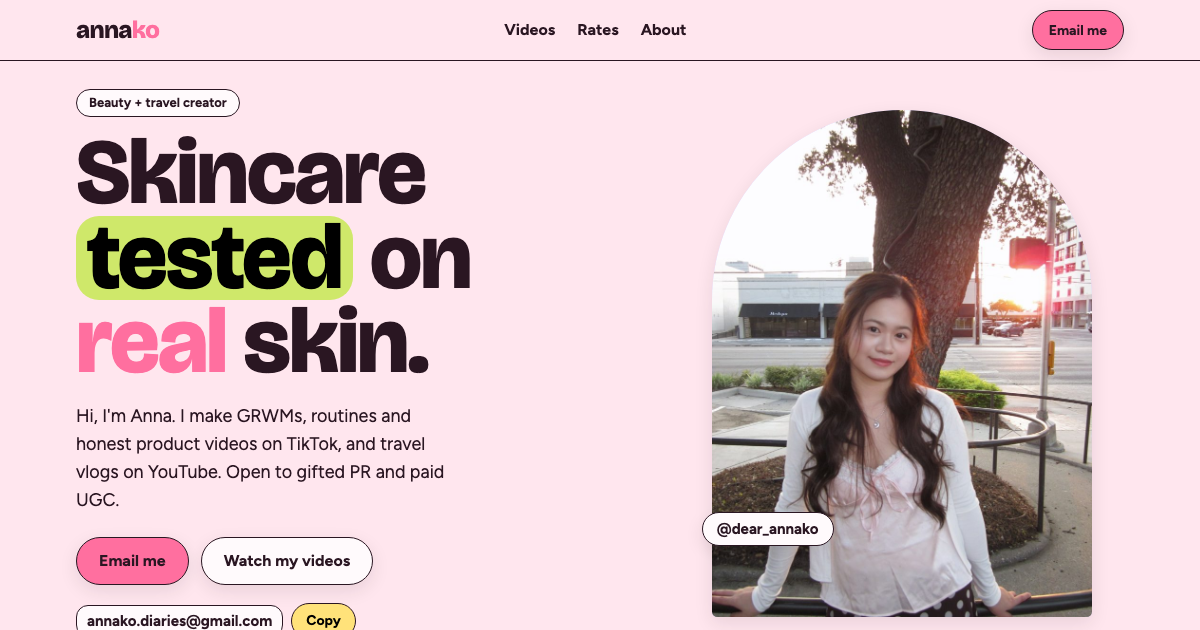
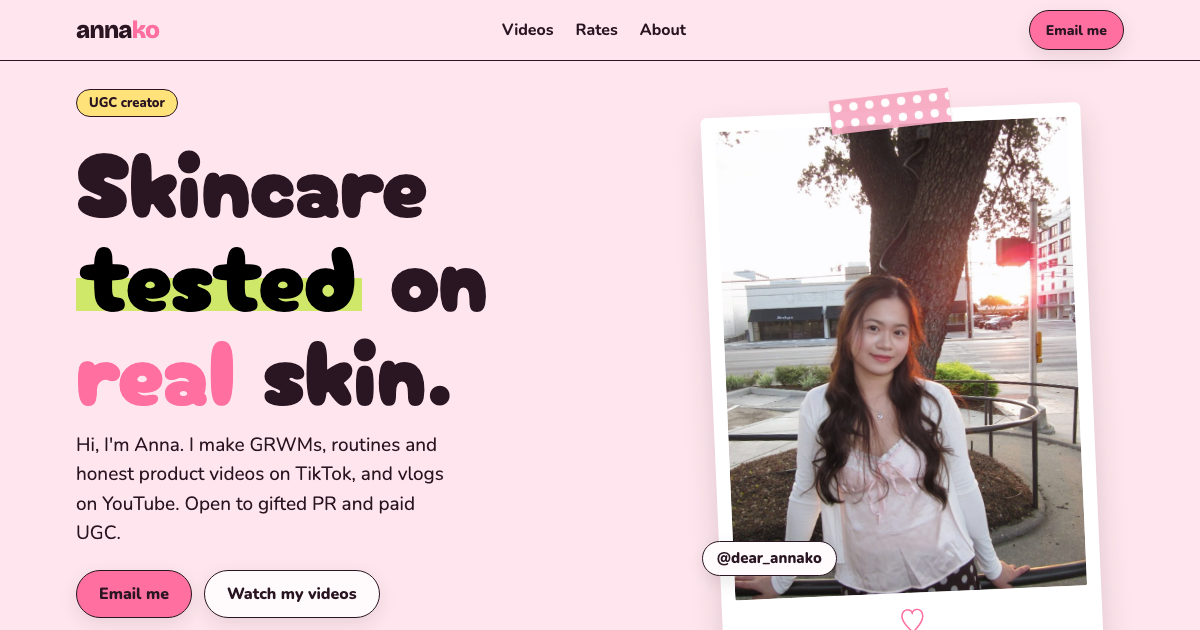
UGC creator wording; softer whimsical fonts; polaroid + stamp photo frames

diff --git a/index.html b/index.html
@@ -3,8 +3,8 @@
 <head>
 <meta charset="utf-8">
 <meta name="viewport" content="width=device-width, initial-scale=1">
-<title>Annako | Beauty + Travel Creator for UGC &amp; PR</title>
-<meta name="description" content="Annako (@dear_annako) is a beauty and travel creator making GRWMs, skincare routines, honest product videos and travel vlogs. Open to gifted PR and paid UGC, from $120 per video.">
+<title>Annako | UGC Creator for Beauty Brands, Gifted PR &amp; Paid UGC</title>
+<meta name="description" content="Annako (@dear_annako) is a UGC creator making GRWMs, skincare routines, honest product videos and vlogs. Open to gifted PR and paid UGC, from $120 per video.">
 <meta name="robots" content="index,follow,max-image-preview:large">
 <link rel="canonical" href="https://dearannako.com/">
 <link rel="alternate" type="text/markdown" href="https://dearannako.com/index.md" title="Annako, plain-text version">
@@ -17,18 +17,18 @@
 <meta name="author" content="Annako (@dear_annako)">
 <meta property="og:type" content="website">
 <meta property="og:site_name" content="Annako's Webspace">
-<meta property="og:title" content="Annako | beauty + travel creator, UGC and PR">
-<meta property="og:description" content="Beauty and travel creator on TikTok @dear_annako. Open to gifted PR and paid UGC. UGC video from $120, 3-video bundle $300.">
+<meta property="og:title" content="Annako | UGC creator, gifted PR and paid UGC">
+<meta property="og:description" content="UGC creator on TikTok @dear_annako. Open to gifted PR and paid UGC. UGC video from $120, 3-video bundle $300.">
 <meta property="og:url" content="https://dearannako.com/">
 <meta property="og:image" content="https://dearannako.com/assets/og.png">
 <meta property="og:image:width" content="1200">
 <meta property="og:image:height" content="630">
-<meta property="og:image:alt" content="Annako, beauty and travel creator: portfolio and UGC rates">
+<meta property="og:image:alt" content="Annako, UGC creator: portfolio and UGC rates">
 <meta name="twitter:card" content="summary_large_image">
-<meta name="twitter:title" content="Annako | beauty + travel creator, UGC and PR">
-<meta name="twitter:description" content="Beauty and travel creator. Gifted PR and paid UGC. TikTok @dear_annako.">
+<meta name="twitter:title" content="Annako | UGC creator, gifted PR and paid UGC">
+<meta name="twitter:description" content="UGC creator. Gifted PR and paid UGC. TikTok @dear_annako.">
 <meta name="twitter:image" content="https://dearannako.com/assets/og.png">
-<meta name="twitter:image:alt" content="Annako, beauty and travel creator: portfolio and UGC rates">
+<meta name="twitter:image:alt" content="Annako, UGC creator: portfolio and UGC rates">
 <script type="application/ld+json">
 {
   "@context": "https://schema.org",
@@ -40,8 +40,8 @@
     "name": "Annako",
     "givenName": "Anna",
     "alternateName": ["dear_annako", "annako.10", "annako.archive"],
-    "description": "Beauty and travel content creator. Makes GRWMs, skincare routines, honest product videos and travel vlogs. Open to gifted PR and paid UGC.",
-    "jobTitle": "Content creator (beauty and travel)",
+    "description": "UGC creator. Makes GRWMs, skincare routines, honest product videos and vlogs. Open to gifted PR and paid UGC.",
+    "jobTitle": "UGC creator",
     "url": "https://dearannako.com/",
     "image": "https://dearannako.com/assets/about.jpg",
     "email": "annako.diaries@gmail.com",
@@ -385,7 +385,7 @@
 <!--/sync:ld-->
 <link rel="preconnect" href="https://fonts.googleapis.com">
 <link rel="preconnect" href="https://fonts.gstatic.com" crossorigin>
-<link href="https://fonts.googleapis.com/css2?family=Bricolage+Grotesque:opsz,wght@12..96,500;12..96,800&family=Figtree:wght@400;500;700&display=swap" rel="stylesheet">
+<link href="https://fonts.googleapis.com/css2?family=Bricolage+Grotesque:opsz,wght@12..96,500;12..96,800&family=Figtree:wght@400;500;700&family=Cherry+Bomb+One&family=Nunito:wght@400;600;700;800&family=Gaegu:wght@700&display=swap" rel="stylesheet">
 <style>
 :root{
   --bg:#ffe6ee;        /* strawberry milk */
@@ -520,6 +520,27 @@ h2{font-size:clamp(34px,9vw,60px)}
 .foot{font-size:13px;opacity:.7;margin-top:28px;padding-bottom:28px}
 .contact{padding-bottom:0}
 @media(prefers-reduced-motion:reduce){*{transition:none!important;scroll-behavior:auto!important}}
+
+/* ---- soft + a little whimsical (2026-10-10): puffy headings, rounded body, framed photos; background stays plain ---- */
+body{font-family:'Nunito','Figtree',system-ui,sans-serif}
+h1,h2,.disp{font-family:'Cherry Bomb One','Nunito',sans-serif;font-weight:400;letter-spacing:0;line-height:1.05}
+h3{font-family:'Nunito','Figtree',sans-serif;font-weight:800;letter-spacing:0}
+h1{line-height:1.02}
+h1 mark{background:linear-gradient(transparent 56%,var(--matcha) 56%,var(--matcha) 92%,transparent 92%);border-radius:0;padding:0 .06em}
+.contact h2 mark{background:linear-gradient(transparent 56%,var(--pink) 56%,var(--pink) 92%,transparent 92%);color:inherit;border-radius:0;padding:0 .06em}
+.btn,.tabs button,.copy,.sticker,.mail code{font-family:'Nunito','Figtree',sans-serif;font-weight:800}
+.tag{font-family:'Nunito',sans-serif;font-weight:800;background:var(--butter)}
+.lede{font-size:19px}
+/* hero photo: tilted polaroid with washi tape */
+.photo .frame{border-radius:6px;background:#fff;padding:14px 14px 58px;transform:rotate(-2.5deg);box-shadow:0 14px 30px rgba(42,22,34,.16);overflow:visible;position:relative}
+.photo .frame img{border-radius:2px}
+.photo .frame::before{content:"";position:absolute;top:-16px;left:50%;width:120px;height:34px;transform:translateX(-50%) rotate(-4deg);opacity:.9;
+  background:radial-gradient(#fff 4px,transparent 4.6px) 0 0/16px 16px,#f7a8c1;box-shadow:0 2px 4px rgba(0,0,0,.08)}
+.photo .frame::after{content:"♡";position:absolute;left:0;right:0;bottom:14px;text-align:center;font:700 26px/1 'Gaegu',cursive;color:var(--pink)}
+/* about photo: postage-stamp frame, tilted the other way */
+.about .pic{border-radius:0;overflow:visible;padding:14px;transform:rotate(2deg);filter:drop-shadow(0 10px 18px rgba(42,22,34,.16));
+  background:radial-gradient(circle,var(--bg) 6px,transparent 6.5px) -9px -9px/18px 18px,#fff;box-shadow:none}
+.about .pic img{border-radius:0}
 </style>
 </head>
 <body>
@@ -538,9 +559,9 @@ h2{font-size:clamp(34px,9vw,60px)}
 <section class="hero">
   <div class="wrap grid">
     <div>
-      <span class="tag">Beauty + travel creator</span>
+      <span class="tag">UGC creator</span>
       <h1 style="margin-top:14px">Skincare <mark>tested</mark> on <em>real</em> skin.</h1>
-      <p class="lede">Hi, I'm Anna. I make GRWMs, routines and honest product videos on TikTok, and travel vlogs on YouTube. Open to gifted PR and paid UGC.</p>
+      <p class="lede">Hi, I'm Anna. I make GRWMs, routines and honest product videos on TikTok, and vlogs on YouTube. Open to gifted PR and paid UGC.</p>
       <div class="cta">
         <a class="btn" href="mailto:annako.diaries@gmail.com?subject=Collab%20with%20Annako">Email me</a>
         <a class="btn alt" href="#work">Watch my videos</a>
@@ -627,7 +648,7 @@ h2{font-size:clamp(34px,9vw,60px)}
     <div class="pic"><img src="assets/about.jpg" alt="Anna in a pink cardigan standing in a flower garden" width="700" height="933" loading="lazy"></div>
     <div>
       <h2>Hi, I'm Annako</h2>
-      <p>I make beauty and travel content that looks like real life, not an ad. GRWMs, skincare routines and honest reviews, the kind of recommendation you'd get from a friend.</p>
+      <p>I make beauty and lifestyle content that looks like real life, not an ad. GRWMs, skincare routines and honest reviews, the kind of recommendation you'd get from a friend.</p>
       <p>I'm also a senior studying Neuroscience, so I like reading the ingredient list before I say anything about a product.</p>
       <div class="code">
         <span>YesStyle code <b>ANNAKO10</b></span>

diff --git a/index.md b/index.md
@@ -1,6 +1,6 @@
 # Annako (@dear_annako)
 
-Beauty + travel creator. Hi, I'm Anna. I make GRWMs, routines and honest product videos on TikTok, and travel vlogs on YouTube. Open to gifted PR and paid UGC.
+UGC creator. Hi, I'm Anna. I make GRWMs, routines and honest product videos on TikTok, and vlogs on YouTube. Open to gifted PR and paid UGC.
 
 Page: https://dearannako.com/
 
@@ -47,7 +47,7 @@ Derma Factory, Beauty of Joseon, ISNTREE, Dr.Cellx, JOOCYEE, TIRTIR, celimax, Ye
 
 ## About
 
-I make beauty and travel content that looks like real life, not an ad. GRWMs, skincare routines and honest reviews, the kind of recommendation you'd get from a friend.
+I make beauty and lifestyle content that looks like real life, not an ad. GRWMs, skincare routines and honest reviews, the kind of recommendation you'd get from a friend.
 
 I'm also a senior studying Neuroscience, so I like reading the ingredient list before I say anything about a product.
 
